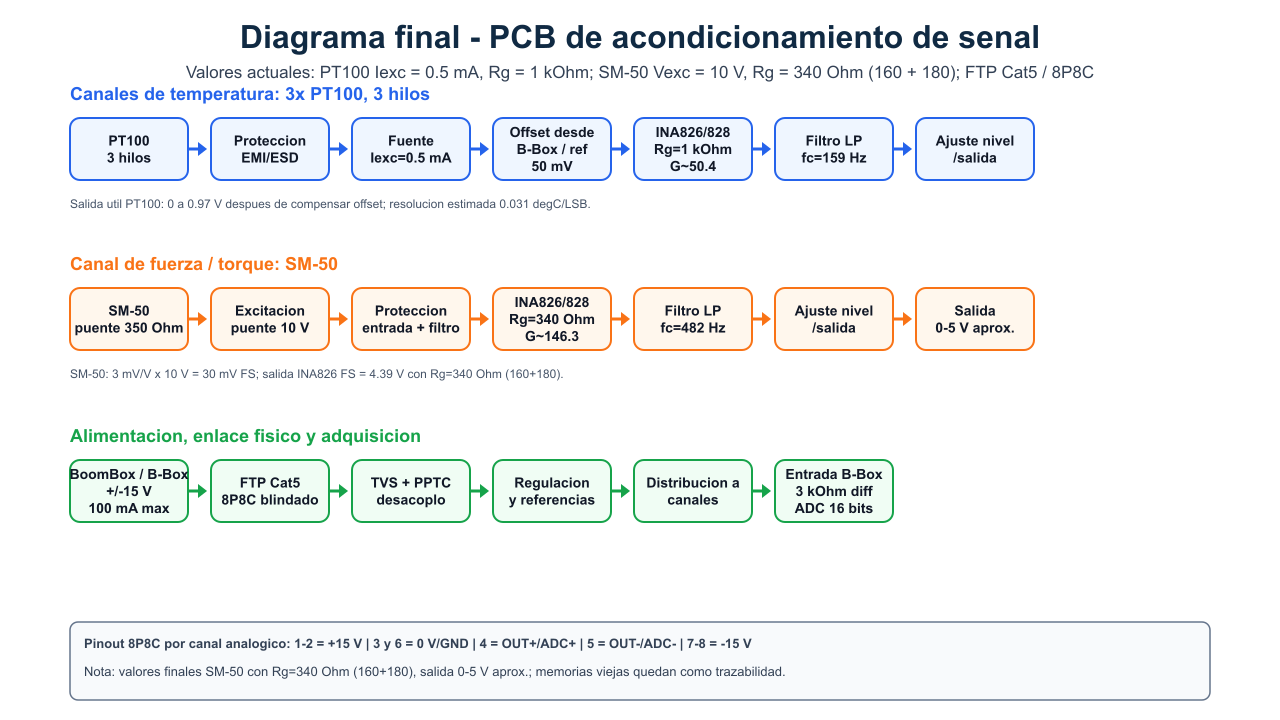
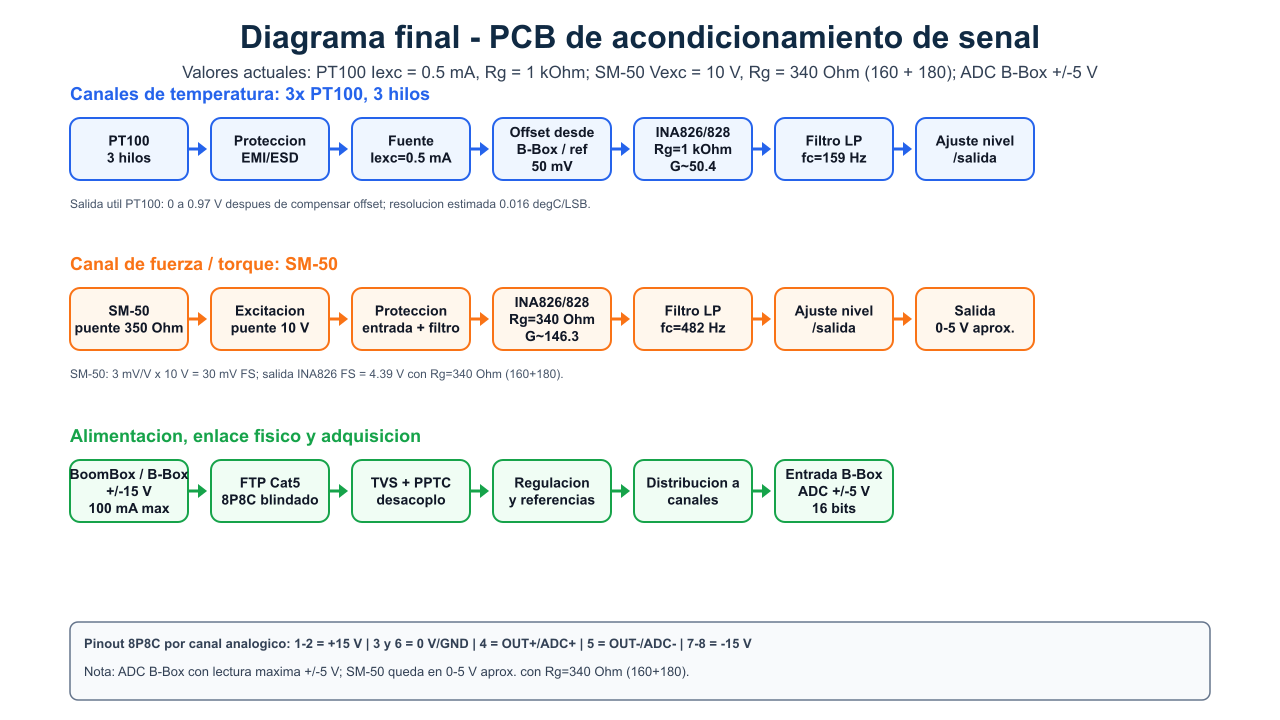
Documentar limite ADC B-Box +/-5V

Changed region(s): [[0.125, 0.0917, 0.875, 0.1222], [0.0938, 0.9167, 0.625, 0.9472], [0.625, 0.6722, 0.6875, 0.7333]]

diff --git a/scripts/generar_figuras_repo.py b/scripts/generar_figuras_repo.py
@@ -181,7 +181,7 @@ def build_block_diagram() -> list[Path]:
     )
     add_svg_text(
         lines,
-        ["Valores actuales: PT100 Iexc = 0.5 mA, Rg = 1 kOhm; SM-50 Vexc = 10 V, Rg = 340 Ohm (160 + 180); FTP Cat5 / 8P8C"],
+        ["Valores actuales: PT100 Iexc = 0.5 mA, Rg = 1 kOhm; SM-50 Vexc = 10 V, Rg = 340 Ohm (160 + 180); ADC B-Box +/-5 V"],
         640,
         78,
         font_size=17,
@@ -203,7 +203,7 @@ def build_block_diagram() -> list[Path]:
                 ["Filtro LP", "fc=159 Hz"],
                 ["Ajuste nivel", "/salida"],
             ],
-            "note": "Salida util PT100: 0 a 0.97 V despues de compensar offset; resolucion estimada 0.031 degC/LSB.",
+            "note": "Salida util PT100: 0 a 0.97 V despues de compensar offset; resolucion estimada 0.016 degC/LSB.",
         },
         {
             "title": "Canal de fuerza / torque: SM-50",
@@ -232,7 +232,7 @@ def build_block_diagram() -> list[Path]:
                 ["TVS + PPTC", "desacoplo"],
                 ["Regulacion", "y referencias"],
                 ["Distribucion a", "canales"],
-                ["Entrada B-Box", "3 kOhm diff", "ADC 16 bits"],
+                ["Entrada B-Box", "ADC +/-5 V", "16 bits"],
             ],
             "note": "",
         },
@@ -270,7 +270,7 @@ def build_block_diagram() -> list[Path]:
     )
     add_svg_text(
         lines,
-        ["Nota: valores finales SM-50 con Rg=340 Ohm (160+180), salida 0-5 V aprox.; memorias viejas quedan como trazabilidad."],
+        ["Nota: ADC B-Box con lectura maxima +/-5 V; SM-50 queda en 0-5 V aprox. con Rg=340 Ohm (160+180)."],
         84,
         footer_y + 54,
         font_size=13,

diff --git a/docs/bitacora/bitacora_PCB_actualizada_27_06_2026.tex b/docs/bitacora/bitacora_PCB_actualizada_27_06_2026.tex
@@ -253,7 +253,7 @@ Definir formalmente la arquitectura completa del sistema de adquisición de señ
 \item Se definieron criterios de diseño para la entrada de la PCB, incluyendo protección contra ESD, filtrado EMI y referencia de tierra adecuada.
 \item Se dimensionó preliminarmente la ganancia del sistema de torque, estableciendo rangos de 500 a 1000 V/V para adaptar señales de milivoltios a niveles compatibles con el controlador.
 \item Se identificaron integrados recomendables para el acondicionamiento, como amplificadores de instrumentación tipo INA333, INA826 y AD8426.
-\item Se analizó la etapa de adquisición del sistema imperix BoomBox, comprendiendo su funcionamiento con ADC diferencial de 16 bits y rango de entrada de hasta ±10 V.
+\item Se analizó la etapa de adquisición del sistema imperix BoomBox, comprendiendo su funcionamiento con ADC diferencial de 16 bits y lectura máxima considerada de hasta ±5 V.
 \item Se estableció la importancia de diseñar la PCB de forma que la señal final quede dentro del rango del ADC, evitando saturación o activación de protecciones.
 \end{itemize}
 

diff --git a/docs/INFORME_DESARROLLO_PROYECTO.md b/docs/INFORME_DESARROLLO_PROYECTO.md
@@ -69,7 +69,7 @@ Las gráficas del repositorio se generaron desde los CSV en `docs/simulacion/`, 
 
 La memoria `memoria_calculo_PCB0.docx` fue importante para fijar el razonamiento inicial: calcular la sensibilidad del PT100, estimar autocalentamiento, separar offset de variación útil, calcular ganancia del amplificador de instrumentación, y dimensionar el canal SM-50 desde una señal de puente de aproximadamente 30 mV a escala completa. Sin embargo, esa memoria corresponde a una etapa previa del proyecto y no todos sus valores quedaron iguales en la revisión final.
 
-La diferencia principal es el destino de la señal. En la memoria preliminar se pensó en aprovechar un ADC de 3.3 V directamente, mientras que el proyecto final se adaptó a la BoomBox/B-Box, que permite entradas analógicas diferenciales de hasta el orden de 10 V y entrega alimentación de sensores por el cable analógico. Por eso el canal SM-50 final usa una ganancia intermedia, suficiente para llevar la señal a un rango cercano a 0-5 V y dejar margen frente al límite de la B-Box. En el PT100 se redujo la corriente de excitación a 0.5 mA para disminuir autocalentamiento y mantener una respuesta de voltaje compatible con el rango documentado en simulación.
+La diferencia principal es el destino de la señal. En la memoria preliminar se pensó en aprovechar un ADC de 3.3 V directamente, mientras que el proyecto final se adaptó a la BoomBox/B-Box, cuya lectura máxima de ADC se toma como +/-5 V, equivalente a 10 V de span diferencial, y que entrega alimentación de sensores por el cable analógico. Por eso el canal SM-50 final usa una ganancia intermedia, suficiente para llevar la señal a un rango cercano a 0-5 V y dejar margen frente al límite de la B-Box. En el PT100 se redujo la corriente de excitación a 0.5 mA para disminuir autocalentamiento y mantener una respuesta de voltaje compatible con el rango documentado en simulación.
 
 | Aspecto | Memoria preliminar | Revisión final vigente |
 | --- | --- | --- |
@@ -78,7 +78,7 @@ La diferencia principal es el destino de la señal. En la memoria preliminar se 
 | PT100, amplificador | INA828 como opción inicial | INA826 como cálculo principal; INA828 queda solo como equivalente si se monta |
 | SM-50, sensibilidad base | 3 mV/V con 10 V, es decir cerca de 30 mV FS | Igual: 3 mV/V, puente de 350 ohm y excitación de 10 V |
 | SM-50, ganancia calculada | Cerca de 100 V/V para salida de 3.3 V | `RG = 340 ohm` (`160 + 180 ohm`), `G = 146.29 V/V`, salida nominal de 4.389 V a escala completa |
-| Interfaz de adquisición | ADC genérico de 3.3 V | BoomBox/B-Box con entrada diferencial de alta impedancia, ADC de 16 bits, rango +/-10 V y alimentación +/-15 V limitada a 100 mA |
+| Interfaz de adquisición | ADC genérico de 3.3 V | BoomBox/B-Box con entrada diferencial de alta impedancia, ADC de 16 bits, lectura máxima +/-5 V y alimentación +/-15 V limitada a 100 mA |
 
 Esta evolución no se considera una contradicción, sino una decisión de integración: se conservaron los fundamentos de sensibilidad, filtrado y amplificación diferencial, pero se recalcularon rangos para la interfaz real de adquisición.
 
@@ -90,9 +90,9 @@ La memoria `memoria_calculo_PCB0_VALORES_ACTUALES_v3_referencias_completas.pdf` 
 
 | Parámetro | Cálculo o dato usado | Resultado | Base |
 | --- | --- | ---: | --- |
-| Rango de medición | Entrada analógica en rango +/-10 V | 20 V de span | Manual BoomBox/B-Box [F1] |
+| Rango de medición | Entrada analógica en rango +/-5 V | 10 V de span | Manual BoomBox/B-Box [F1] |
 | Resolución ADC | 16 bits | 65536 niveles | Manual BoomBox/B-Box [F1] |
-| LSB en +/-10 V | `20 V / 2^16` | 305.18 uV/LSB | Manual BoomBox/B-Box [F1] |
+| LSB en +/-5 V | `10 V / 2^16` | 152.59 uV/LSB | Manual BoomBox/B-Box [F1] |
 | Alimentación disponible | Rieles por 8P8C | +/-15 V, 100 mA máx. | Manual BoomBox/B-Box [F1] |
 | Entrada usada | Alta impedancia diferencial | 3 kohm diferencial | Manual BoomBox/B-Box [F1] |
 
@@ -114,7 +114,7 @@ La memoria `memoria_calculo_PCB0_VALORES_ACTUALES_v3_referencias_completas.pdf` 
 | Ganancia INA826 | `1 + 49.4 kohm / 1 kohm` | 50.40 V/V | Datasheet INA826 [F5] |
 | Span amplificado | `50.40 * 19.25 mV` | 0.970 V | Cálculo propio |
 | Sensibilidad de salida | `50.40 * 0.1925 mV/degC` | 9.702 mV/degC | Cálculo propio |
-| Resolución estimada | `305.18 uV / 9.702 mV/degC` | 0.0315 degC/LSB | B-Box [F1] + cálculo |
+| Resolución estimada | `152.59 uV / 9.702 mV/degC` | 0.0157 degC/LSB | B-Box [F1] + cálculo |
 | Potencia a 100 degC | `(0.5 mA)^2 * 138.50 ohm` | 34.62 uW | Cálculo propio |
 | Autocalentamiento estimado | `34.62 uW / 2 mW/degC` | 0.0173 degC | Criterio conservador de disipación |
 | Filtro pasabajo | `1/(2*pi*10 kohm*100 nF)` | 159.2 Hz | Cálculo RC |
@@ -136,13 +136,13 @@ La memoria `memoria_calculo_PCB0_VALORES_ACTUALES_v3_referencias_completas.pdf` 
 | Ganancia INA826 | `1 + 49.4 kohm / 340 ohm` | 146.29 V/V | Datasheet INA826 [F5] |
 | Salida máxima nominal | `146.29 * 30.00 mV` | 4.389 V | Cálculo propio |
 | Sensibilidad de salida | `146.29 * 13.636 mV/N*m` | 1.995 V/N*m | Cálculo propio |
-| Resolución estimada | `305.18 uV / 1.995 V/N*m` | 153.0 uN*m/LSB | B-Box [F1] + cálculo |
+| Resolución estimada | `152.59 uV / 1.995 V/N*m` | 76.5 uN*m/LSB | B-Box [F1] + cálculo |
 | Zero balance | `+/-1 %RO` | +/-0.300 mV crudo; +/-0.044 V a la salida | Datasheet [F2] + cálculo |
 | No linealidad | `+/-0.03 %FS` | +/-0.660 mN*m | Datasheet [F2] + cálculo |
 | Histéresis | `+/-0.02 %FS` | +/-0.440 mN*m | Datasheet [F2] + cálculo |
 | Filtro pasabajo | `1/(2*pi*10 kohm*33 nF)` | 482.3 Hz | Cálculo RC |
 
-La diferencia entre el cálculo nominal del SM-50 y la gráfica LTspice se debe a que la gráfica muestra la respuesta del modelo simulado completo, mientras que la memoria v3 presenta el dimensionamiento nominal con `RG = 340 ohm` y salida esperada cercana a 0-5 V. En ambos casos la salida queda por debajo del límite práctico de 10 V de la entrada B-Box.
+La diferencia entre el cálculo nominal del SM-50 y la gráfica LTspice se debe a que la gráfica muestra la respuesta del modelo simulado completo, mientras que la memoria v3 presenta el dimensionamiento nominal con `RG = 340 ohm` y salida esperada cercana a 0-5 V. En ambos casos la salida queda dentro del límite práctico de lectura +/-5 V de la entrada B-Box.
 
 ### 3. Diseño del esquemático en KiCad
 
@@ -150,7 +150,7 @@ Después de validar rangos en LTspice, el circuito se trasladó a KiCad. El esqu
 
 En el bloque de alimentación se consideró la disponibilidad de rieles desde la B-Box y la necesidad de una excitación regulada para el SM-50. El regulador TPS7A4901 se seleccionó para generar la referencia de excitación positiva de 10 V del puente, manteniendo un margen adecuado frente al máximo permitido por el sensor. En el bloque PT100 se incorporó una referencia REF3012 de 1.25 V para establecer la corriente de excitación. El uso de OPA2188 se justificó por su baja deriva, mientras que el INA826 se usó como amplificador de instrumentación para señales diferenciales pequeñas.
 
-El manual de la BoomBox/B-Box reforzó la decisión de usar conectores RJ45 blindados y cable Cat5e para la interfaz analógica. La entrada analógica puede configurarse como diferencial de alta impedancia o como entrada de baja impedancia, incluye ganancia y filtro programable, y el conector entrega rieles de alimentación para sensores. Para el diseño de esta PCB se tomaron como restricciones prácticas los rieles +/-15 V disponibles por el cable y los límites de entrada de aproximadamente +/-10 V en modo diferencial, por lo que las salidas acondicionadas se mantuvieron por debajo de 10 V.
+El manual de la BoomBox/B-Box reforzó la decisión de usar conectores RJ45 blindados y cable Cat5e para la interfaz analógica. La entrada analógica puede configurarse como diferencial de alta impedancia o como entrada de baja impedancia, incluye ganancia y filtro programable, y el conector entrega rieles de alimentación para sensores. Para el diseño de esta PCB se tomaron como restricciones prácticas los rieles +/-15 V disponibles por el cable y la lectura máxima de ADC de aproximadamente +/-5 V, por lo que las salidas acondicionadas se mantuvieron en el rango útil de 0-5 V.
 
 | Pin RJ45 BoomBox analógica | Función reportada en manual |
 | ---: | --- |

diff --git a/README.md b/README.md
@@ -36,6 +36,8 @@ Diseñar e implementar una tarjeta de circuito impreso que permita acondicionar 
 
 ![Diagrama de bloques](docs/figuras/diagrama_bloques_valores_actuales.png)
 
+Nota de adquisicion: la lectura maxima del ADC de la B-Box se toma como +/-5 V (10 V de span), por lo que la salida del SM-50 se mantiene cerca de 0-5 V para conservar margen de medicion.
+
 ## Simulaciones
 
 ### Canal PT100